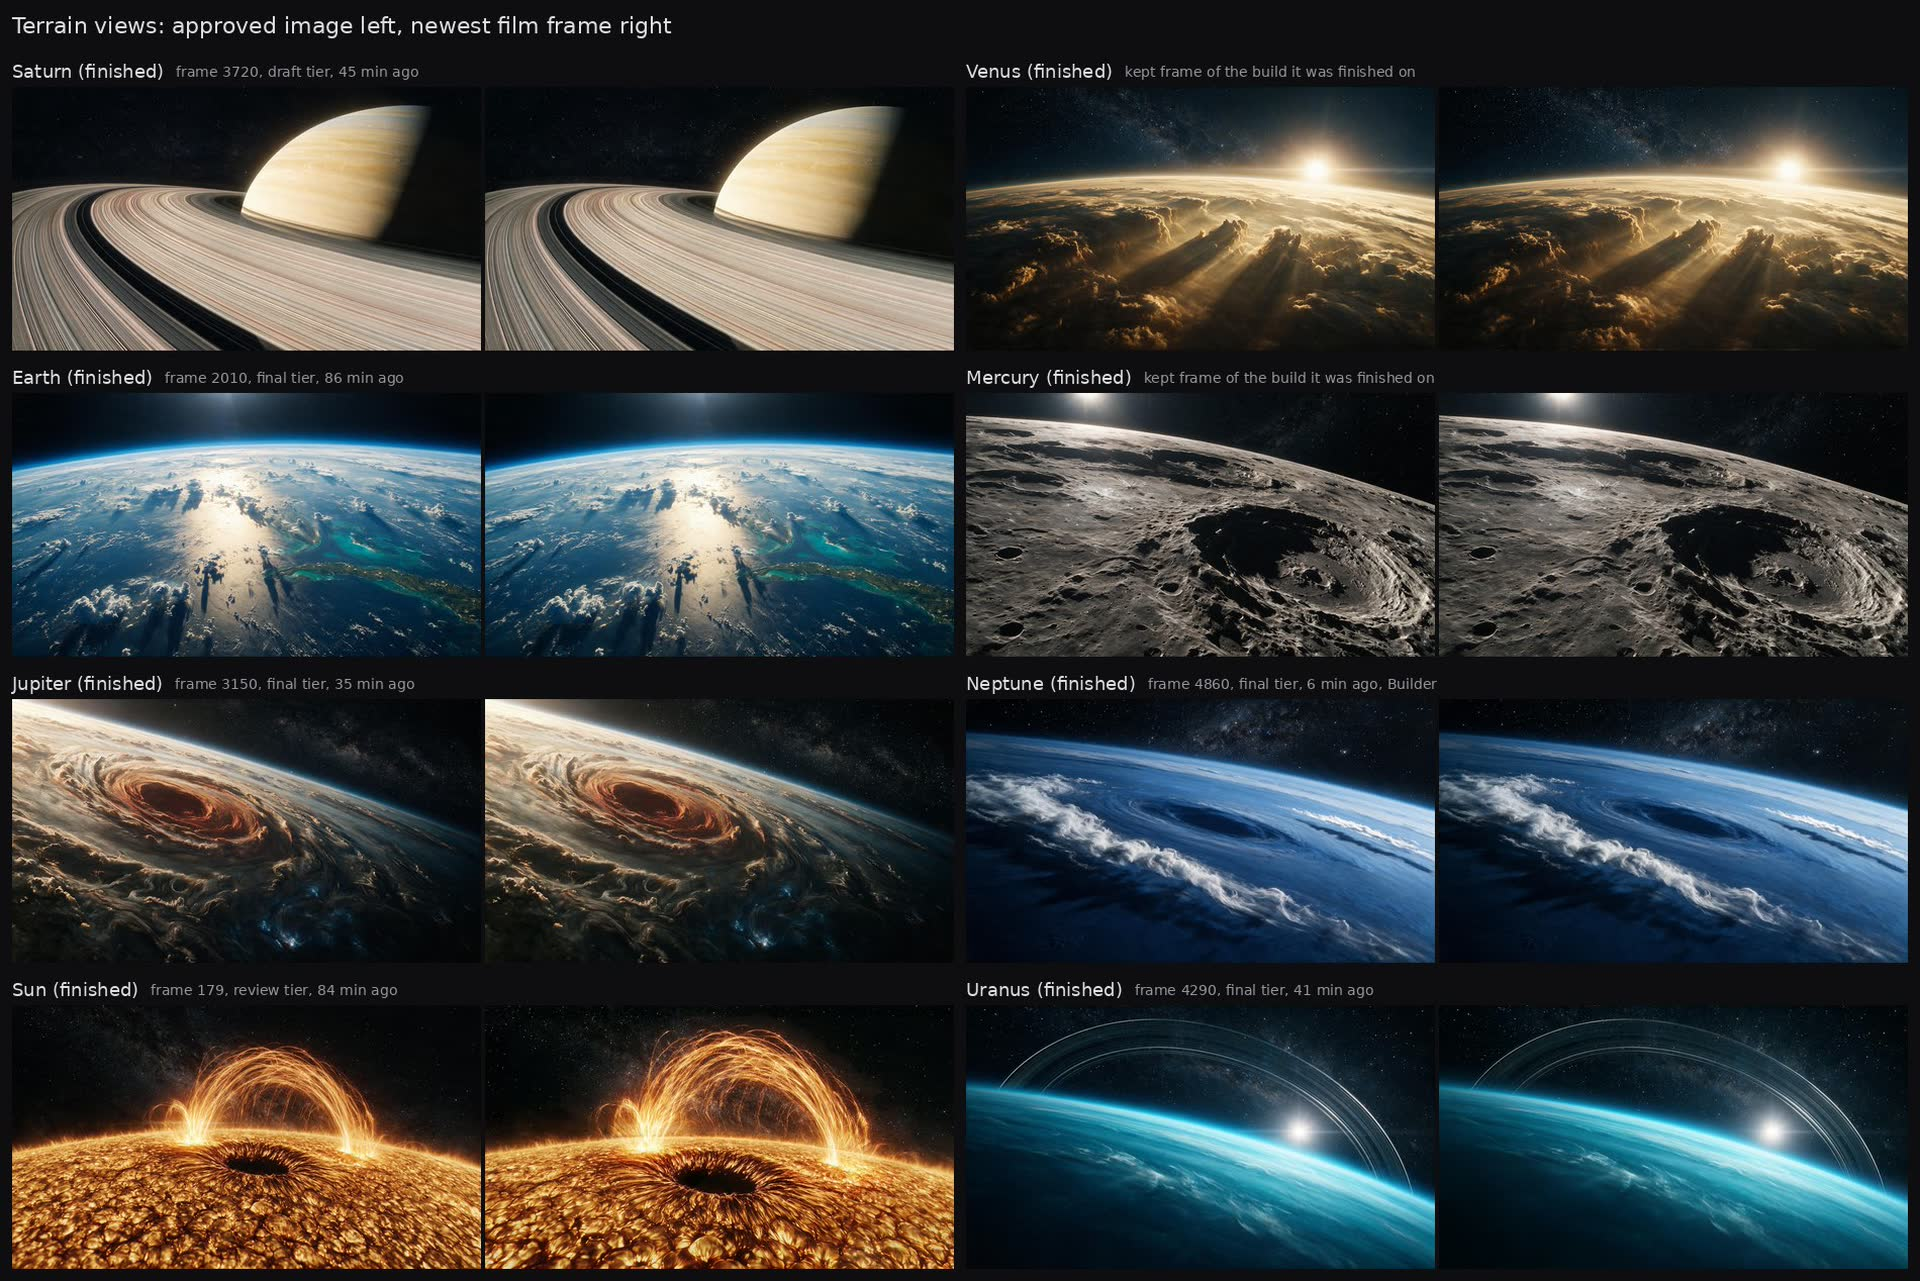
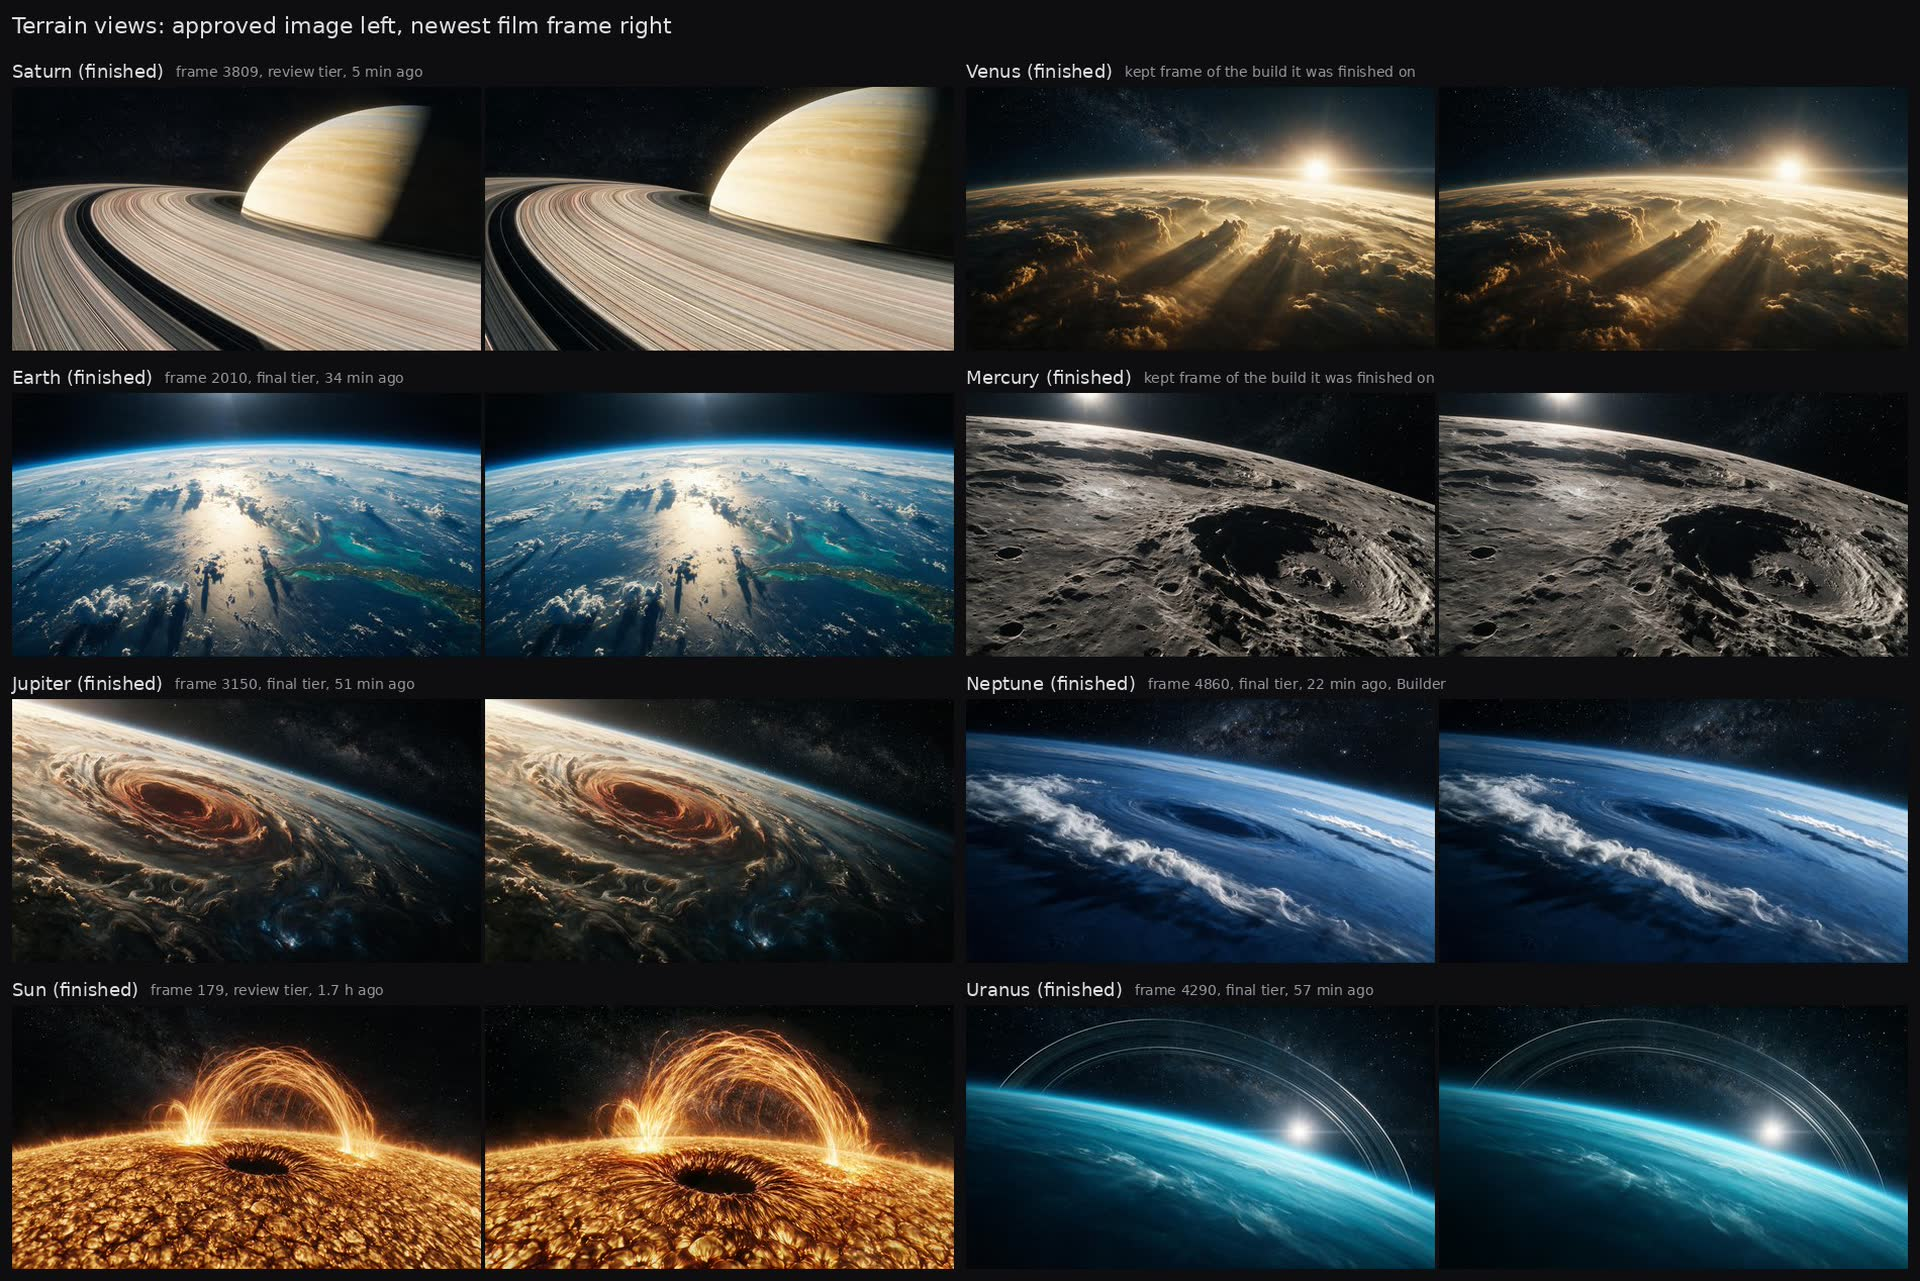
Status: Phase 6, polish round 34 (round 2 of 3): all 59 answers are in. Match: S

Changed region(s): [[0.25, 0.0625, 0.5, 0.281], [0.125, 0.0312, 0.2188, 0.0625], [0.6875, 0.5308, 0.75, 0.5621]]

diff --git a/kit/PROGRESS.md b/kit/PROGRESS.md
@@ -751,6 +751,8 @@ Round 5 left these open (open items 6 to 15 hold the critics' words). Each of th
 - 2026-11-22 17:13 UTC, Phase 6 round 34, the Builder's own look before the critics. Every moved still and every moved sheet was looked at beside round 33's. Reads better: the Earth dive and its cover (the edge of the globe is in the frame from 1879 and flattens into the horizon; round 33 was flat white at 1879 and 1880), the Venus rise and its cover (Sun and tone carry through 1563 to 1570), the Uranus rise cover (the band of the Milky Way no longer comes in as an upright strip at 4409 to 4416), the Uranus dive cover (less radial streaking under the band), the flights (the next body in view earlier, the Sun keeps its look to the edge at 1052 to 1068). Reads the same: every sheet of Jupiter and Neptune, Saturn's dive, rise and covers, the Sun's rise and cover, Mercury's dive. Prices seen and left to the critics: at Uranus's rise the sky above the limb is plain at 4414 and 4420 and the band is in view behind the globe at 4427, within seven frames; the change of Mercury's ground between 994 and 1000 is as it was (item 71); the Earth rise cover is as it was (item 55, the arc law is allowed in round 35). Measures on this build: eight stops pass G5, G13 and G17 (Saturn's measure is the last job still out).
 - 2026-11-22 17:18 UTC, re-read after a compaction of the Builder's context, as AGENTS.md asks: the head and the headings of this file, every file in kit/addenda/ (README, 001, 002, 003), the open items 1 to 108, kit/05-ARCHITECTURE.md, kit/07-QUALITY-BAR.md, kit/09-QA-GAUNTLET.md and Phase 6 of kit/08-BUILD-ORDER.md. Nothing in them changes the plan: round 34 is the second of three polish rounds, its critics judge only what the round touched, a status with pictures is shown inline at least every 30 minutes, the posts of addendum 003 are joined after step 7 from the clips of the frozen build.
 - 2026-11-22 17:18 UTC, Phase 6 round 34, the measures. The last render job of the round, Saturn's measure, came in at 17:17 UTC after 41 minutes on its worker (a second copy of the job, sent to an idle worker at 17:16 in case the first was lost, was withdrawn when the first arrived). All 138 jobs are placed, no record is from another build. All nine stops pass G5, G13 and G17 on this build: no soft frame at any stop (463 of 463 at six stops, 448 at Neptune, 434 at the Sun, 433 at Venus), and the sharpness of every judged hold and terrain frame is over the floor (lowest medians: Venus terrain 0.936, Saturn terrain 0.951, Venus hold 0.959). No red measure, so no severe issue from the measures in this round. The pack was built at 17:14 from the placed jobs with the control votes of round 30 and rendered nothing: 59 critics, reviewer_1219 to reviewer_1277 (5 match, 17 surface, 10 motion, 1 whole film, 1 scroll stop, 3 compression, 10 jurors on Earth, 12 namers on four holds). The pack was built two minutes before Saturn's measure came in; a measure changes no picture, and the critics of Saturn were on their way with the rest. Disk: the sheet tiles of the round (1.6 GB of single frames, already joined into the sheets the critics get) and the stills of older builds in the work folder (235 MB) were deleted to stay over the 3 GB floor of the render commands; 4.4 GB are free.
+- 2026-11-22 17:27 UTC, re-read after a compaction of the Builder's context, as AGENTS.md asks: the head and the headings of this file, every file in kit/addenda/ (README, 001, 002, 003), the open items 1 to 108, kit/05-ARCHITECTURE.md, kit/07-QUALITY-BAR.md, kit/09-QA-GAUNTLET.md and Phase 6 of kit/08-BUILD-ORDER.md. Nothing in them changes the plan: round 34 is the second of three polish rounds and its 59 critics are out (all spawned by 17:26 UTC, 25 answers in so far); round 35 is the last; then the freeze, the record round, the master, the clips, the posts of addendum 003, the proofs, the cues, the README, the review page, the gauntlet with its five posts items, and the BUILD COMPLETE block with the Posts line after the Clips line. A status with pictures stays due at least every 30 minutes while critics are awaited.
+- 2026-11-22 17:38 UTC, re-read after a compaction of the Builder's context, as AGENTS.md asks: the head and the headings of this file, every file in kit/addenda/ (README, 001, 002, 003), the open items 1 to 108, kit/05-ARCHITECTURE.md, kit/07-QUALITY-BAR.md, kit/09-QA-GAUNTLET.md and Phase 6 of kit/08-BUILD-ORDER.md. Nothing in them changes the plan. Round 34 is the second of three polish rounds; all 59 answers of its critics, jurors and namers are in at 17:35 UTC and the critics' words went to the twelve agents at 17:33 UTC (mails 189 to 200) so their offers for round 35 can answer them. Next: close round 34 (votes, summary, open items from 109), status, then round 35, the last polish round, cut at 18:30 UTC from take outs and small proven things; then the freeze, the record round, the master, the clips, the posts of addendum 003, the proofs, the cue sheet, the README, the review page, the gauntlet and the BUILD COMPLETE block with its Posts line.
 
 ## Open items
 
@@ -1145,3 +1147,4 @@ One entry per task: when it started, what it did, where it stopped.
   - Status, 2026-11-22 16:42 UTC. Phase 6, polish round 34 (round 2 of 3): 75 of the 138 render jobs of the build on main (89ced51b) are placed. All 55 final stills are in: 37 moved against round 33 and each was looked at beside it, none reads worse; the motion sheets of the flights and of the Earth dive are in. The machine checks are in their browser steps. Next: the rest of the sheets and the measures by about 17:05 UTC, then the critics on what moved. Then round 35 (take outs and small proven things), the freeze, the record round, the master, the clips and the posts. Pictures shown inline (status 114, shown 16:42 UTC): four pairs of round 33 left and round 34 right: the dive into Earth (the edge of the globe stays in view through the cover and flattens into the horizon, aimed at open items 54 and 105); the flight from Mercury to Venus (the Sun keeps its look, Venus is in view from 1069); the flight from Jupiter to Saturn (Saturn in view from 3349, the globe's shadow a dark bar across the rings); Saturn's judged frame 3866 at native size (the band of the Milky Way with dark lanes and finer grain, the shadow on the rings with a softer edge). None is judged yet.
   - Status, 2026-11-22 17:02 UTC. Phase 6, polish round 34 (round 2 of 3): 118 of the 138 render jobs of the build on main (89ced51b) are placed, and the machine checks are green on it. Every sheet that has come in was looked at beside round 33: the covers of the Earth dive and of the Uranus rise read cleaner, nothing reads worse so far. Next: the last sheets and the measures, then the critics on what moved. Then round 35 (take outs and small proven things), the freeze, the record round, the master, the clips and the posts. Pictures shown inline (status 115, shown 17:03 UTC): four pairs of round 33 left and round 34 right at the review tier: the cover of the dive into Earth, twelve frames in a row (the edge of the globe is in the frame at 1879 and flattens into the horizon by 1882, where round 33 was flat white at 1879 and 1880); the rise from Uranus (the band of the Milky Way no longer stands upright behind the limb from 4414, it lies behind the globe in one direction from 4427; it comes into view within seven frames); the rise from Venus (the exposure carries through the cover at 1564 and 1570); the rise from Mercury (the Sun a disc with short rays at 1000; the change of the ground between 994 and 1000 is still there). None is judged yet.
   - Status, 2026-11-22 17:20 UTC. Phase 6, polish round 34 (round 2 of 3): all 138 render jobs are placed, the measures pass at all nine stops and the machine checks are green. The 59 critics of the round were asked at 17:17 UTC on what moved; the first answers are in (match: Sun 8 after 6, Jupiter 9, Neptune 9; opening at phone size 9; motion at Uranus 5, as in round 33). Next: the rest of the answers, then the round is closed and round 35 is cut (take outs and small proven things). Then the freeze, the record round, the master, the clips and the posts. Pictures shown inline (status 116, shown 17:21 UTC): the rise from Uranus in round 34 as the motion critic got it (score 5, the sky comes in between 4420 and 4427), the Sun close view at frame 90 beside the approved image (match 8 after 6), the flare ghost at the dark edge of Mercury at 717 and the grey patch on the Sun's edge at 247, each beside round 33
+  - Status, 2026-11-22 17:36 UTC. Phase 6, polish round 34 (round 2 of 3): all 59 answers are in. Match: Sun 8 (round 33: 6), Earth 7, Jupiter 9, Uranus 7, Neptune 9. Surface: Sun 6, Mercury 7, Venus 4, Earth 5, Jupiter 5, Saturn 5, Uranus 5, Neptune 4. Motion: Sun 6, Mercury 3, Venus 7, Earth 4, Jupiter 7, Saturn 8, Uranus 5, Neptune 6. Whole film 6 (round 33: 4), opening at phone size 9, compression 8. The words of the critics went to the twelve agents at 17:33 UTC. Next: round 34 is closed and written up, then round 35, the last polish round, is cut at 18:30 UTC from take outs and small proven things. Then the freeze, the record round, the master, the clips and the posts. Pictures shown inline: Orbit views: approved image left, newest film frame right. Left column, top to bottom: Saturn, Earth, Jupiter, Sun. Right column: Venus, Mercury, Neptune, Uranus. (`out/stills/status/board-orbit.jpg`); Terrain views: approved image left, newest film frame right. Left column, top to bottom: Saturn, Earth, Jupiter, Sun. Right column: Venus, Mercury, Neptune, Uranus. (`out/stills/status/board-terrain.jpg`); Earth, the twelve frames across the cover of the dive: round 33 above, round 34 below. The motion critic still gives Earth 4. (`out/stills/status/extra-pair-earth-dive-cover.jpg`); Sun: sun frame 0 final, whole frame: main (round 34) above, new corner below, not committed yet; agent/sun 997883b8, main ff158d90 (from the supporting agent building it, 32 min ago) (`out/stills/status/sun-look-1.jpg`).
